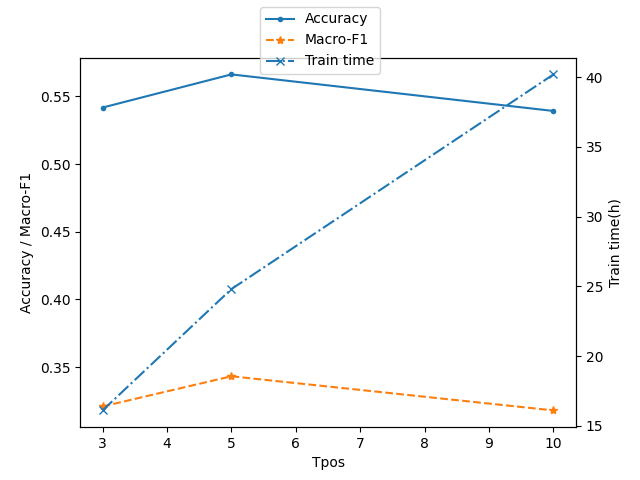
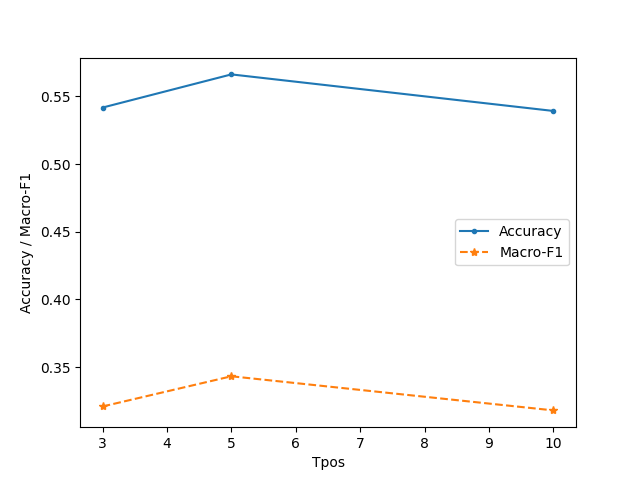
顶点分类实验结果增加HAN；参数敏感性分析增加alpha取值

diff --git a/gnnrec/hge/result/plot.py b/gnnrec/hge/result/plot.py
@@ -18,12 +18,7 @@ def plot_param_analysis():
         ax.plot(x, df[f'Macro-F1_{p}'].dropna().to_numpy(), '*--', label='Macro-F1')
         ax.set_xlabel(p)
         ax.set_ylabel('Accuracy / Macro-F1')
-
-        ax2 = ax.twinx()
-        ax2.plot(x, df[f'Train-time_{p}(h)'].dropna().to_numpy(), 'x-.', label='Train time')
-        ax2.set_ylabel('Train time(h)')
-
-        fig.legend(loc='upper center')
+        ax.legend()
         fig.savefig(RESULT_DIR / f'param_analysis_{p}.png')
 
 

diff --git a/gnnrec/hge/readme.md b/gnnrec/hge/readme.md
@@ -14,6 +14,7 @@
 
 ## Baselines
 * [R-GCN](https://arxiv.org/pdf/1703.06103)
+* [HAN](https://arxiv.org/pdf/1903.07293)
 * [HGT](https://arxiv.org/pdf/2003.01332)
 * [HGConv](https://arxiv.org/pdf/2012.14722)
 * [R-HGNN](https://arxiv.org/pdf/2105.11122)
@@ -35,6 +36,9 @@ python -m gnnrec.hge.rgcn.train --dataset=oag-venue --num-hidden=48 --epochs=30
 python -m gnnrec.hge.metapath2vec.random_walk model/word2vec/ogbn-mag_corpus.txt
 python -m gnnrec.hge.metapath2vec.train_word2vec --size=128 --workers=8 model/word2vec/ogbn-mag_corpus.txt model/word2vec/ogbn-mag.model
 ```
+
+### HAN
+结果来自HeCo论文
 
 ### HGT
 ```shell

diff --git a/plan.md b/plan.md
@@ -5,7 +5,7 @@
 * [x] 2021.7~2021.10 改进异构图神经网络模型，完成与现有方法的对比实验
 * [x] 2021.9~2021.10 构造学术网络数据集，实现基于图神经网络的推荐算法
 * [x] 2021.10~2021.11 整理实验结果，实现可视化系统，撰写毕业论文初稿
-* [ ] 2021.11~2021.12 完成毕业论文，准备毕业答辩
+* [x] 2021.11~2021.12 完成毕业论文，准备毕业答辩
 
 ## 论文阅读
 ### 异构图表示学习
